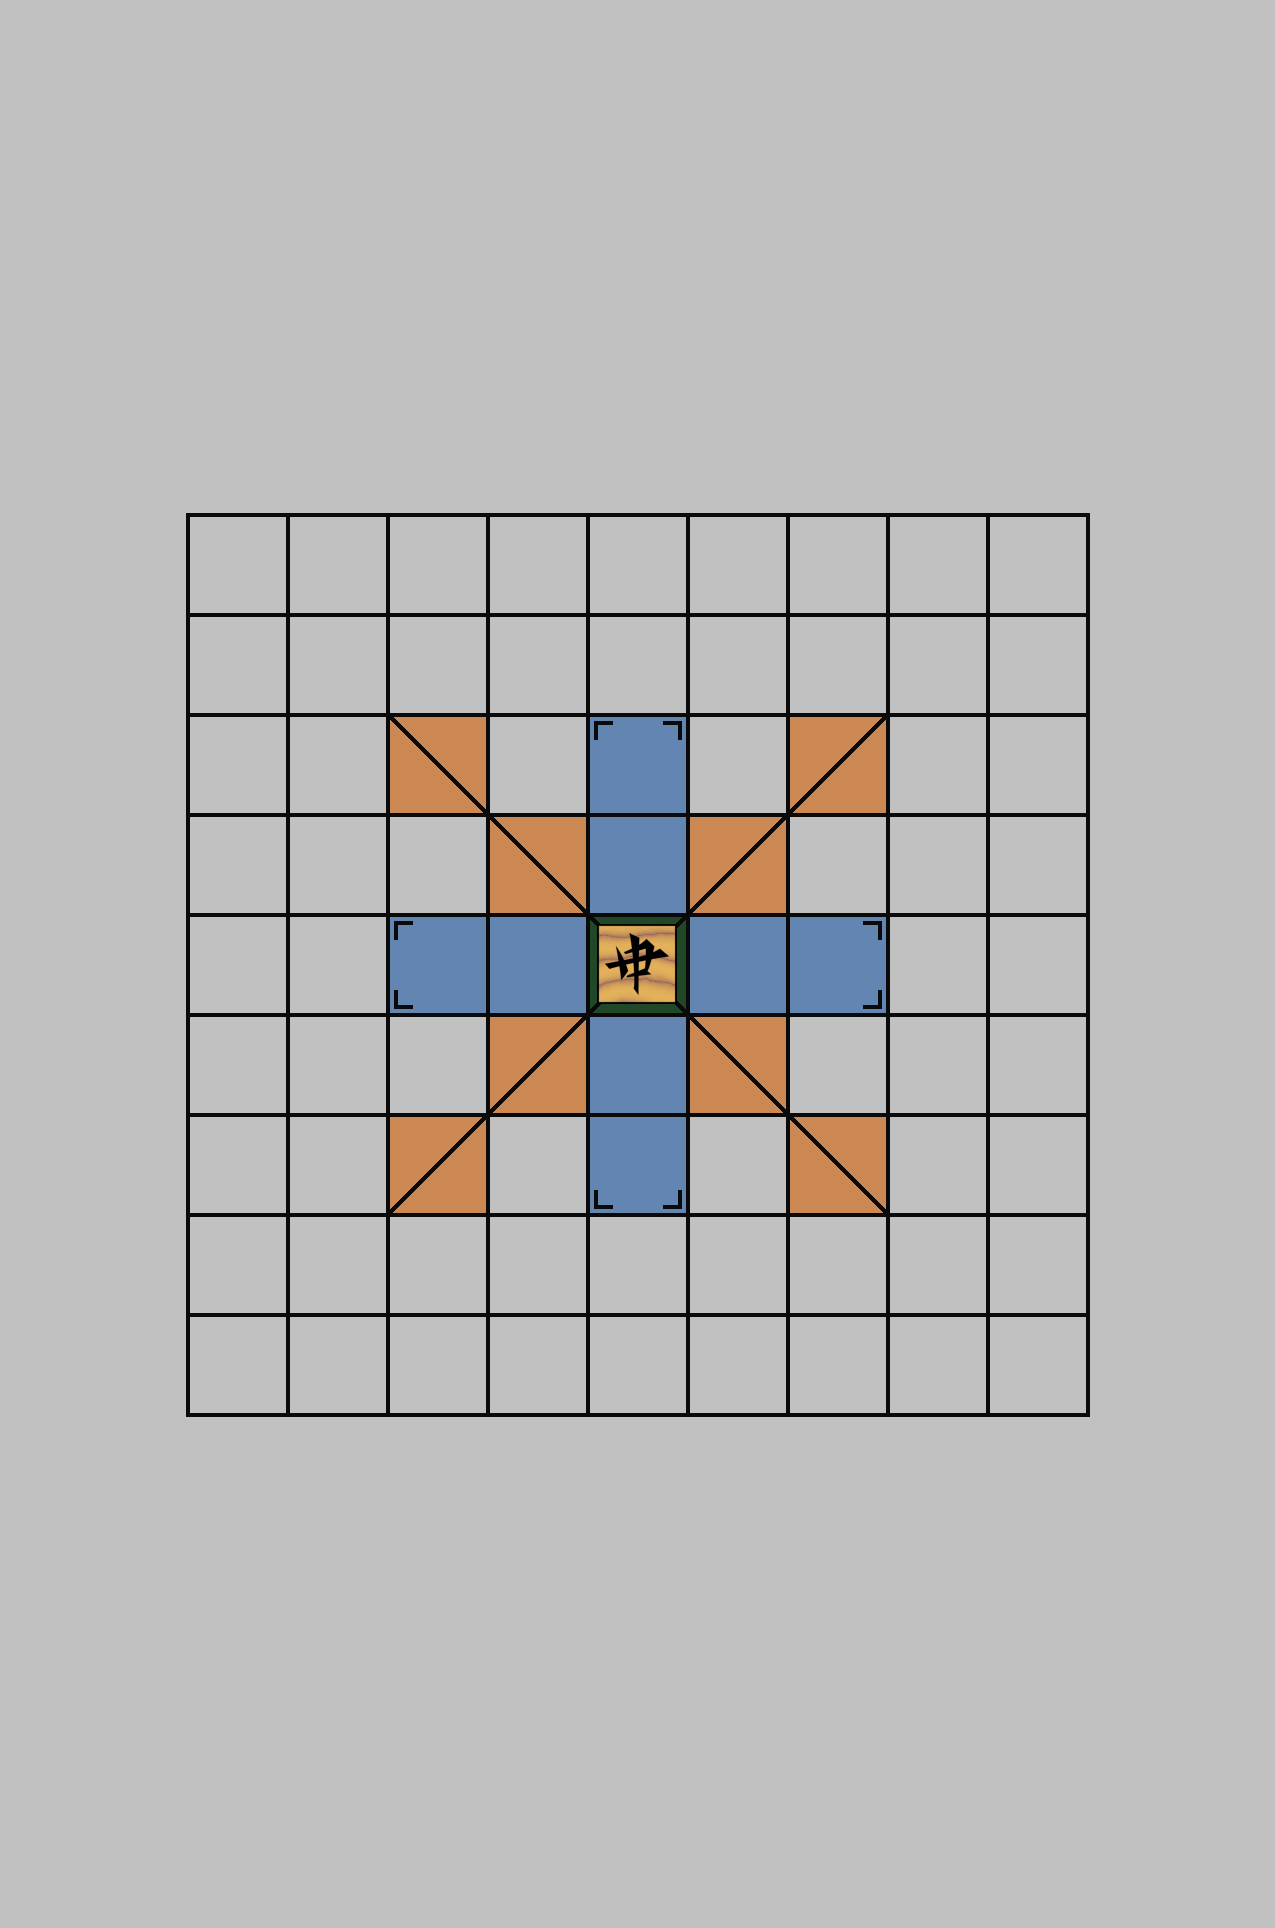
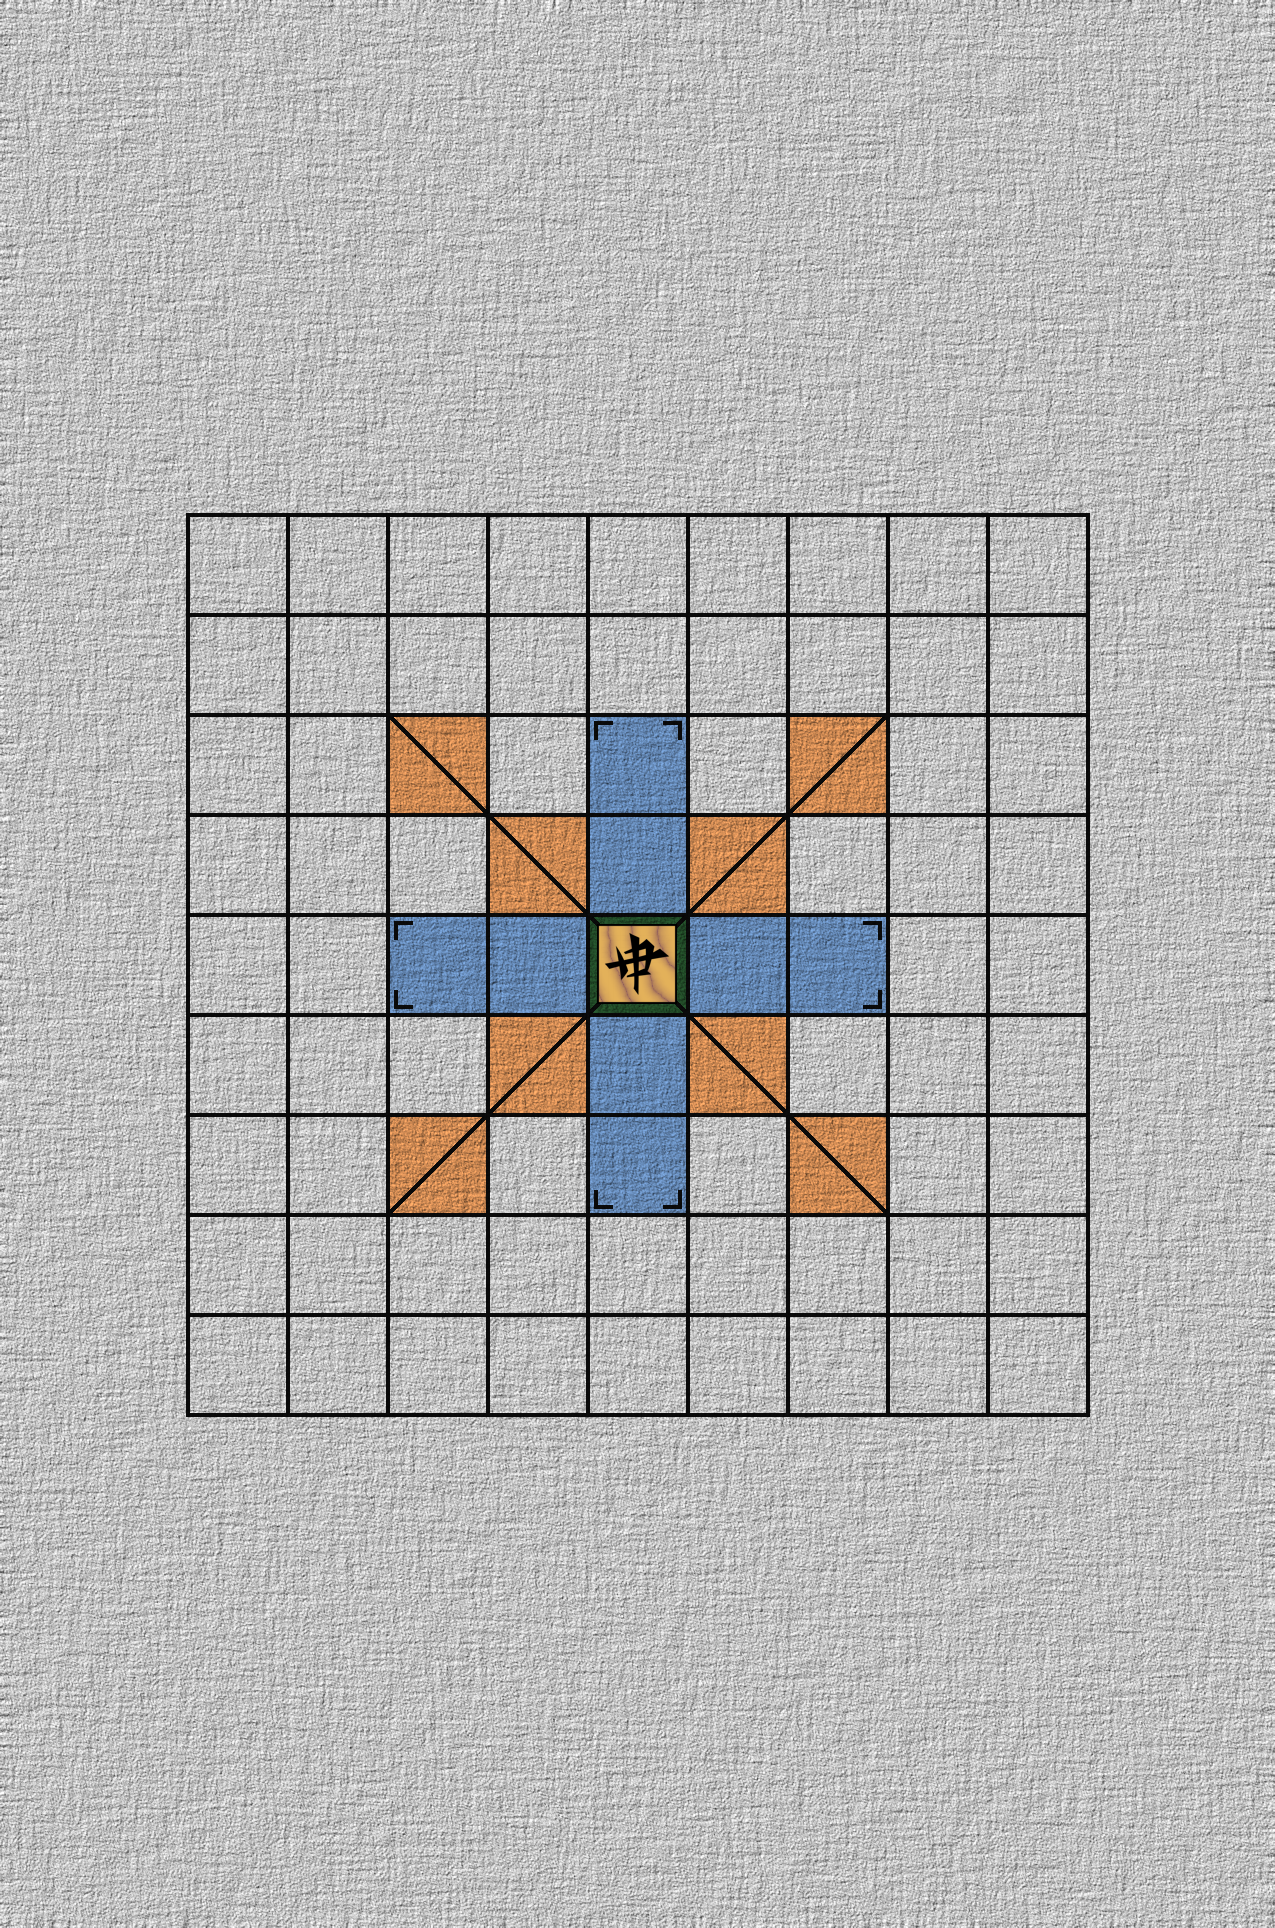
Just use the custom-built image

diff --git a/src/field/background.rs b/src/field/background.rs
@@ -1,4 +1,11 @@
+
+const TAK1: &'static [u8] = include_bytes!("optimum.png");
+
 pub fn background_img(square_size_in_pixel: f32) -> image::RgbImage {
+    if square_size_in_pixel == 100.0 {
+        return image::load_from_memory(&TAK1).unwrap().to_rgb();
+    }
+
     let raw_board = rawboard(square_size_in_pixel);
     // If I succeed in implementing GIMP's bump_map later, then I will resurrect this code
     /*
